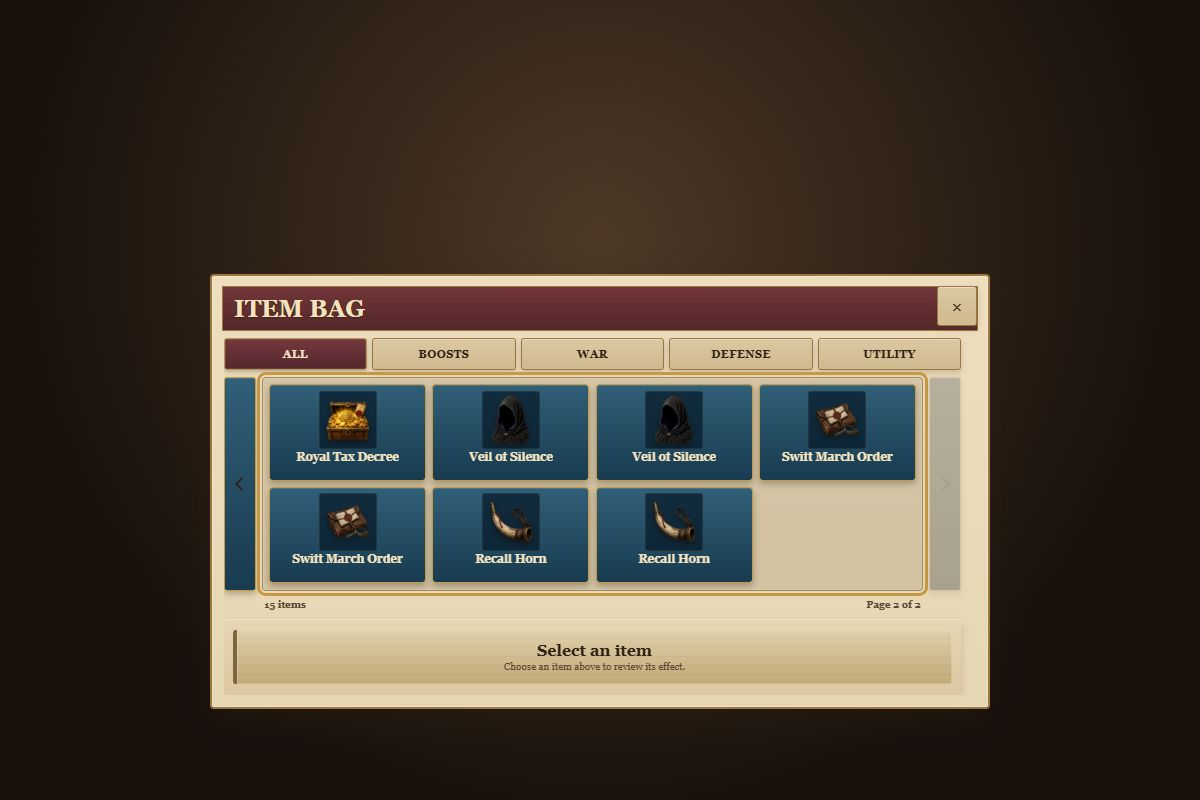
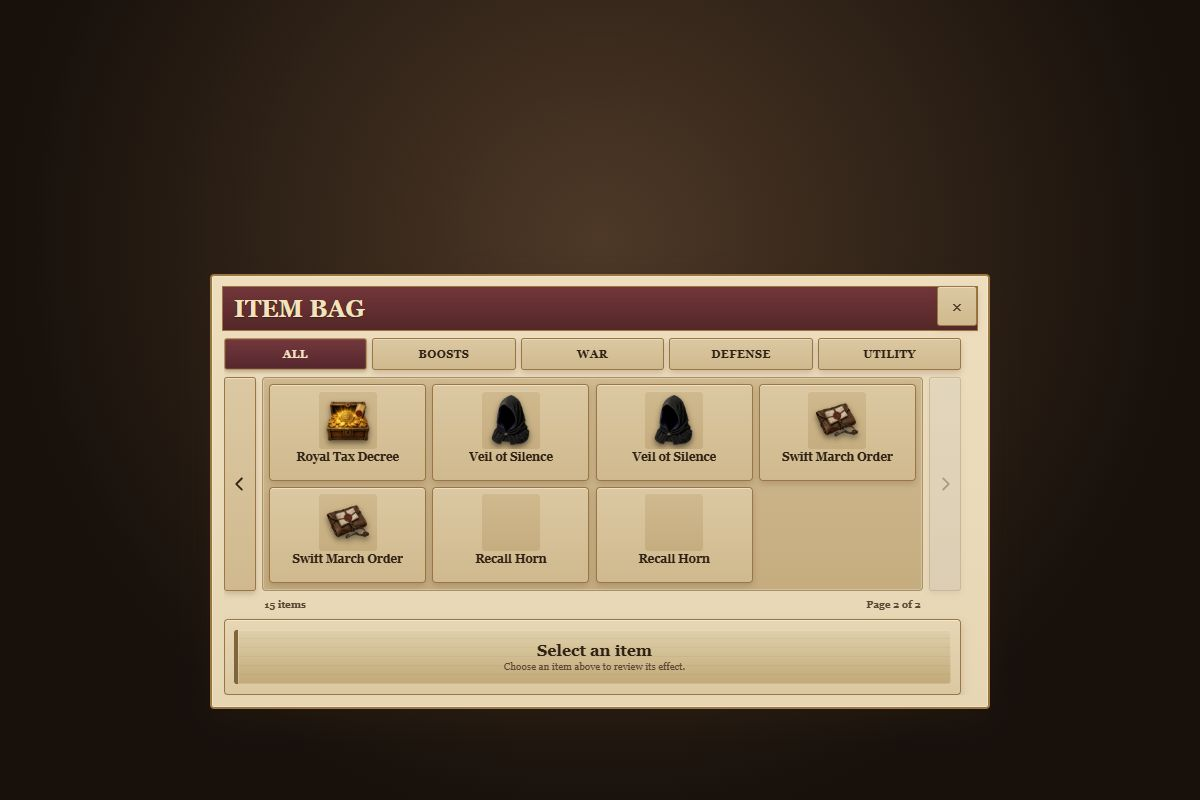
Match Item Bag palette to Shop theme

Changed region(s): [[0.185, 0.4375, 0.8017, 0.75]]

diff --git a/styles.css b/styles.css
@@ -4058,10 +4058,10 @@ input {
   min-width: 0;
   min-height: 176px;
   overflow: hidden;
-  border: 1px solid rgba(111,82,45,.52);
+  border: 1px solid var(--cl-border-faded);
   border-radius: 4px;
-  background: rgba(75,56,36,.14);
-  box-shadow: inset 0 0 0 1px rgba(255,247,216,.18);
+  background: var(--cl-inset-bg);
+  box-shadow: inset 0 0 0 1px rgba(255,248,232,.28);
   touch-action: pan-y;
 }
 .modal.inventory-modal .inventory-slots {
@@ -4094,11 +4094,16 @@ input {
   display: grid;
   place-items: center;
   padding: 0;
-  color: #f2e2bf !important;
-  background: linear-gradient(180deg, #6f3439, #452127) !important;
-  border: 1px solid #9d7b43 !important;
+  color: var(--cl-text) !important;
+  background: linear-gradient(180deg, var(--cl-panel-raised), var(--cl-panel-inset)) !important;
+  border: 1px solid var(--cl-brass) !important;
   border-radius: 3px;
-  box-shadow: inset 0 0 0 1px rgba(242,226,191,.1), 0 3px 6px rgba(24,15,9,.25) !important;
+  box-shadow: inset 0 1px 0 rgba(255,248,232,.44), 0 3px 6px rgba(84,47,36,.22) !important;
+}
+.modal.inventory-modal .inventory-page-arrow:hover:not(:disabled) {
+  color: var(--cl-burgundy-dark) !important;
+  border-color: var(--cl-gold-highlight) !important;
+  background: linear-gradient(180deg, #f2e2bf, var(--cl-panel-secondary)) !important;
 }
 .modal.inventory-modal .inventory-page-arrow .cl-icon {
   width: 20px;
@@ -4120,21 +4125,21 @@ input {
   gap: .2rem;
   padding: .34rem .28rem .3rem;
   overflow: hidden;
-  color: #f2e2bf !important;
-  background: linear-gradient(180deg, #173f5e, #0b263d) !important;
-  border: 1px solid #8d7448 !important;
+  color: var(--cl-text) !important;
+  background: linear-gradient(180deg, var(--cl-panel-raised), var(--cl-panel-inset)) !important;
+  border: 1px solid var(--cl-brass) !important;
   border-left-width: 1px !important;
   border-radius: 4px;
-  box-shadow: inset 0 0 0 1px rgba(204,226,236,.07), 0 3px 7px rgba(19,14,10,.28) !important;
+  box-shadow: inset 0 1px 0 rgba(255,248,232,.5), 0 3px 7px rgba(84,47,36,.22) !important;
 }
 .modal.inventory-modal .inventory-slot:hover:not(:disabled) {
-  border-color: #c6a55f !important;
-  background: linear-gradient(180deg, #1c4a6c, #0d2c47) !important;
+  border-color: var(--cl-gold-highlight) !important;
+  background: linear-gradient(180deg, #f2e2bf, var(--cl-panel-secondary)) !important;
 }
 .modal.inventory-modal .inventory-slot.selected {
-  border-color: #e5c06b !important;
-  background: linear-gradient(180deg, #285c79, #11324e) !important;
-  box-shadow: inset 0 0 0 1px rgba(255,236,177,.28), 0 0 0 2px rgba(215,177,83,.18) !important;
+  border-color: var(--cl-gold-highlight) !important;
+  background: linear-gradient(180deg, #f2e2bf, var(--cl-panel-inset)) !important;
+  box-shadow: inset 0 0 0 2px rgba(114,54,58,.78), inset 0 1px 0 rgba(255,248,232,.62), 0 3px 8px rgba(84,47,36,.28) !important;
 }
 .modal.inventory-modal .inventory-slot:disabled {
   opacity: .42;
@@ -4146,9 +4151,9 @@ input {
   place-items: center;
   overflow: hidden;
   align-self: center;
-  border-color: rgba(213,183,106,.48) !important;
-  background: rgba(6,25,40,.72) !important;
-  box-shadow: inset 0 0 0 1px rgba(240,216,151,.08) !important;
+  border-color: var(--cl-brass) !important;
+  background: var(--cl-inset-bg) !important;
+  box-shadow: inset 0 1px 0 rgba(255,248,232,.28) !important;
 }
 .modal.inventory-modal .inventory-slot-image {
   box-sizing: border-box;
@@ -4163,11 +4168,11 @@ input {
   display: -webkit-box;
   align-self: end;
   overflow: hidden;
-  color: #f2e2bf !important;
+  color: var(--cl-text) !important;
   font-size: clamp(.6rem, 1.4vw, .72rem);
   line-height: 1;
   text-overflow: ellipsis;
-  text-shadow: 0 1px 1px rgba(0,0,0,.7) !important;
+  text-shadow: none !important;
   -webkit-box-orient: vertical;
   -webkit-line-clamp: 2;
 }
@@ -4210,7 +4215,11 @@ input {
   align-items: center;
   gap: .58rem;
   padding: .48rem .58rem;
+  color: var(--cl-text);
+  border: 1px solid var(--cl-brass);
   border-radius: 4px;
+  background: linear-gradient(180deg, var(--cl-panel-secondary), var(--cl-panel-inset));
+  box-shadow: inset 0 1px 0 rgba(255,248,232,.48), 0 3px 7px rgba(84,47,36,.18);
 }
 .modal.inventory-modal .inventory-selection-icon {
   width: 56px;
@@ -4218,6 +4227,9 @@ input {
   display: grid;
   place-items: center;
   overflow: hidden;
+  border-color: var(--cl-brass) !important;
+  background: var(--cl-inset-bg) !important;
+  box-shadow: inset 0 1px 0 rgba(255,248,232,.28) !important;
 }
 .modal.inventory-modal .inventory-selection-image {
   box-sizing: border-box;
@@ -4253,12 +4265,15 @@ input {
   white-space: nowrap;
 }
 .modal.inventory-modal .inventory-selection-copy strong {
+  color: var(--cl-burgundy) !important;
   font-size: .82rem;
 }
 .modal.inventory-modal .inventory-selection-copy small {
+  color: var(--cl-text-secondary) !important;
   font-size: .63rem;
 }
 .modal.inventory-modal .inventory-selection-copy span {
+  color: var(--cl-text) !important;
   font-size: .66rem;
 }
 .modal.inventory-modal .inventory-use-btn {
@@ -4274,27 +4289,27 @@ input {
   text-align: center;
 }
 html body .modal.inventory-modal .inventory-carousel .inventory-slot.filled {
-  color: #f2e2bf !important;
-  background: linear-gradient(180deg, #173f5e, #0b263d) !important;
-  border-color: #8d7448 !important;
-  box-shadow: inset 0 0 0 1px rgba(204,226,236,.07), 0 3px 7px rgba(19,14,10,.28) !important;
+  color: var(--cl-text) !important;
+  background: linear-gradient(180deg, var(--cl-panel-raised), var(--cl-panel-inset)) !important;
+  border-color: var(--cl-brass) !important;
+  box-shadow: inset 0 1px 0 rgba(255,248,232,.5), 0 3px 7px rgba(84,47,36,.22) !important;
 }
 html body .modal.inventory-modal .inventory-carousel .inventory-slot.filled:hover:not(:disabled) {
-  background: linear-gradient(180deg, #1c4a6c, #0d2c47) !important;
-  border-color: #c6a55f !important;
+  background: linear-gradient(180deg, #f2e2bf, var(--cl-panel-secondary)) !important;
+  border-color: var(--cl-gold-highlight) !important;
 }
 html body .modal.inventory-modal .inventory-carousel .inventory-slot.filled.selected {
-  background: linear-gradient(180deg, #285c79, #11324e) !important;
-  border-color: #e5c06b !important;
-  box-shadow: inset 0 0 0 1px rgba(255,236,177,.28), 0 0 0 2px rgba(215,177,83,.18) !important;
+  background: linear-gradient(180deg, #f2e2bf, var(--cl-panel-inset)) !important;
+  border-color: var(--cl-gold-highlight) !important;
+  box-shadow: inset 0 0 0 2px rgba(114,54,58,.78), inset 0 1px 0 rgba(255,248,232,.62), 0 3px 8px rgba(84,47,36,.28) !important;
 }
 html body .modal.inventory-modal .inventory-carousel .inventory-slot-name {
-  color: #f2e2bf !important;
+  color: var(--cl-text) !important;
 }
 html body .modal.inventory-modal .inventory-carousel .inventory-page-arrow {
-  color: #f2e2bf !important;
-  background: linear-gradient(180deg, #6f3439, #452127) !important;
-  border-color: #9d7b43 !important;
+  color: var(--cl-text) !important;
+  background: linear-gradient(180deg, var(--cl-panel-raised), var(--cl-panel-inset)) !important;
+  border-color: var(--cl-brass) !important;
 }
 @media (prefers-reduced-motion: reduce) {
   .modal.inventory-modal .inventory-page { animation: none !important; }

diff --git a/tools/validate-item-bag-ui.js b/tools/validate-item-bag-ui.js
@@ -9,6 +9,7 @@ const game = read("game.js");
 const actions = read("instant-economy-actions.js");
 const styles = read("styles.css");
 const mobile = read("mobile-viewport.css");
+const profileTheme = read("profile-theme.css");
 const index = read("index.html");
 const worker = read("service-worker.js");
 
@@ -88,13 +89,19 @@ assert.doesNotMatch(actions.slice(actions.indexOf("function patchInventoryProjec
 assert.match(actions, /async function refreshInstantEconomyAfterFailure[\s\S]{0,420}?revalidateInstantEconomyActions\(\);[\s\S]{0,180}?showInventoryModal\(\);/, "Rejected item actions must rebuild the Bag so the restored card and page totals return immediately.");
 assert.match(game, /if \(selectedInventoryItemId === item\.id\) \{\s*selectedInventoryItemId = "";\s*selectedInventoryEntryKey = "";/, "Confirmed or local item use must clear the consumed presentation selection.");
 assert.match(styles, /\.modal\.inventory-modal \.inventory-slots[\s\S]*grid-template-columns: repeat\(4,[\s\S]*grid-template-rows: repeat\(2,/, "The Bag must use a fixed 4 by 2 card grid.");
-assert.match(styles, /background: linear-gradient\(180deg, #173f5e, #0b263d\) !important;/, "Bag cards must retain the Crownlands navy surface.");
+const bagTheme = styles.slice(styles.indexOf("/* Item Bag:"), styles.indexOf(".city-list-modal.modal"));
+assert.match(bagTheme, /\.inventory-carousel-viewport[\s\S]*background: var\(--cl-inset-bg\);/, "The Bag item area must use the Shop parchment inset surface.");
+assert.match(bagTheme, /\.inventory-slot \{[\s\S]*color: var\(--cl-text\) !important;[\s\S]*background: linear-gradient\(180deg, var\(--cl-panel-raised\), var\(--cl-panel-inset\)\) !important;[\s\S]*border: 1px solid var\(--cl-brass\) !important;/, "Bag cards must use the Shop parchment, brown-text, and brass treatment.");
+assert.match(bagTheme, /\.inventory-slot\.selected \{[\s\S]*border-color: var\(--cl-gold-highlight\) !important;[\s\S]*background: linear-gradient\(180deg, #f2e2bf, var\(--cl-panel-inset\)\) !important;[\s\S]*rgba\(114,54,58,\.78\)/, "Selected Bag cards must retain the Shop-style burgundy and restrained-gold accent.");
+assert.match(bagTheme, /\.inventory-page-arrow \{[\s\S]*color: var\(--cl-text\) !important;[\s\S]*background: linear-gradient\(180deg, var\(--cl-panel-raised\), var\(--cl-panel-inset\)\) !important;/, "Bag arrows must use the Shop parchment button language.");
+assert.doesNotMatch(bagTheme, /#173f5e|#0b263d|#1c4a6c|#285c79|#11324e/, "The approved Bag must not regress to navy fantasy surfaces.");
+assert.match(profileTheme, /:not\(\[aria-pressed="true"\]\):not\(\.inventory-slot,\.inventory-page-arrow\)/, "The legacy Profile button layer must not repaint Bag cards or arrows navy.");
 assert.match(mobile, /max-height: 440px[\s\S]*\.modal\.inventory-modal[\s\S]*\.inventory-selection/, "Landscape Bag compaction is missing.");
-assert.match(index, /crownlands-build" content="20260823-item-bag-shop-reconcile-r1"/);
+assert.match(index, /crownlands-build" content="20260823-item-bag-shop-theme-r1"/);
 for (const asset of ["styles.css", "mobile-viewport.css", "instant-economy-actions.js", "game.js"]) {
-  assert(index.includes(`${asset}?v=20260823-item-bag-shop-reconcile-r1`), `${asset} has a stale page cache stamp.`);
-  assert(worker.includes(`/${asset}?v=20260823-item-bag-shop-reconcile-r1`), `${asset} is missing from the refreshed offline shell.`);
+  assert(index.includes(`${asset}?v=20260823-item-bag-shop-theme-r1`), `${asset} has a stale page cache stamp.`);
+  assert(worker.includes(`/${asset}?v=20260823-item-bag-shop-theme-r1`), `${asset} is missing from the refreshed offline shell.`);
 }
-assert(worker.includes('CACHE_VERSION = "20260823-item-bag-shop-reconcile-r1"'));
+assert(worker.includes('CACHE_VERSION = "20260823-item-bag-shop-theme-r1"'));
 
 console.log("Validated the Crownlands Item Bag: categories, individual copies, bounded 4x2 paging, input guards, responsive layout, and cache delivery.");

diff --git a/index.html b/index.html
@@ -21,11 +21,11 @@
   <meta name="apple-mobile-web-app-title" content="Crownlands" />
   <meta name="apple-mobile-web-app-status-bar-style" content="black-translucent" />
   <meta name="format-detection" content="telephone=no" />
-  <meta name="crownlands-build" content="20260823-item-bag-shop-reconcile-r1" />
+  <meta name="crownlands-build" content="20260823-item-bag-shop-theme-r1" />
   <link rel="preconnect" href="https://fonts.googleapis.com" />
   <link rel="preconnect" href="https://fonts.gstatic.com" crossorigin />
   <link href="https://fonts.googleapis.com/css2?family=Cinzel:wght@400;500;600;700;800;900&family=Cinzel+Decorative:wght@700;900&family=IM+Fell+English:ital@0;1&display=swap" rel="stylesheet" />
-  <link rel="stylesheet" href="styles.css?v=20260823-item-bag-shop-reconcile-r1" />
+  <link rel="stylesheet" href="styles.css?v=20260823-item-bag-shop-theme-r1" />
   <link rel="stylesheet" href="interface-theme.css?v=20260814-readability-r38" />
   <link rel="stylesheet" href="daily-rewards.css?v=20260819-targeted-ui-contrast-r2" />
   <link rel="stylesheet" href="common-gear-ui.css?v=20260817-inner-castle-labels-r1" />
@@ -33,9 +33,9 @@
   <link rel="stylesheet" href="manuscript-prototype.css?v=20260819-player-flags-v2-r1" />
   <link rel="stylesheet" href="ui-contrast-correction.css?v=20260819-player-flags-v2-r1" />
   <link rel="stylesheet" href="profile-theme.css?v=20260819-player-flags-v2-r1" />
-  <link rel="stylesheet" href="crownlands-palette.css?v=20260823-item-bag-shop-reconcile-r1" />
+  <link rel="stylesheet" href="crownlands-palette.css?v=20260823-item-bag-shop-theme-r1" />
   <link rel="stylesheet" href="action-buttons.css?v=20260814-readability-r38" />
-  <link rel="stylesheet" href="mobile-viewport.css?v=20260823-item-bag-shop-reconcile-r1" />
+  <link rel="stylesheet" href="mobile-viewport.css?v=20260823-item-bag-shop-theme-r1" />
   <link rel="stylesheet" href="player-flag-editor.css?v=20260819-player-flags-v2-r1" />
   <link rel="stylesheet" href="chat.css?v=20260818-global-clan-chat-r1" />
   <link rel="preload" as="image" type="image/webp" href="assets/optimized/login-background-1448x1086-c8507d1988d6.webp" fetchpriority="high" />
@@ -606,10 +606,10 @@
   <script src="chat-ui.js?v=20260818-global-clan-chat-r1"></script>
   <script src="audio-manager.js?v=20260812-core-visual-pass-2"></script>
   <script src="animation-manager.js?v=20260810-daily-mission-camp-fix-v1"></script>
-  <script src="instant-economy-actions.js?v=20260823-item-bag-shop-reconcile-r1"></script>
+  <script src="instant-economy-actions.js?v=20260823-item-bag-shop-theme-r1"></script>
   <script src="base-cities.js?v=20260813-base-cities-split-r1"></script>
-  <script src="common-gear-ui.js?v=20260823-item-bag-shop-reconcile-r1"></script>
-  <script src="game.js?v=20260823-item-bag-shop-reconcile-r1"></script>
+  <script src="common-gear-ui.js?v=20260823-item-bag-shop-theme-r1"></script>
+  <script src="game.js?v=20260823-item-bag-shop-theme-r1"></script>
   <script src="ui-layout-runtime.js?v=20260818-global-clan-chat-r1"></script>
 </body>
 </html>

diff --git a/service-worker.js b/service-worker.js
@@ -1,4 +1,4 @@
-const CACHE_VERSION = "20260823-item-bag-shop-reconcile-r1";
+const CACHE_VERSION = "20260823-item-bag-shop-theme-r1";
 const CACHE_NAME = `crownlands-cache-${CACHE_VERSION}`;
 const APP_BASE_URL = new URL("./", self.location.href);
 
@@ -11,15 +11,15 @@ function resolveAppUrl(path = "") {
 const STATIC_CACHE_URLS = [
   "/index.html",
   "/manifest.webmanifest",
-  "/styles.css?v=20260823-item-bag-shop-reconcile-r1",
+  "/styles.css?v=20260823-item-bag-shop-theme-r1",
   "/interface-theme.css?v=20260814-readability-r38",
   "/readability.css?v=20260819-player-flags-v2-r1",
   "/manuscript-prototype.css?v=20260819-player-flags-v2-r1",
   "/ui-contrast-correction.css?v=20260819-player-flags-v2-r1",
   "/profile-theme.css?v=20260819-player-flags-v2-r1",
-  "/crownlands-palette.css?v=20260823-item-bag-shop-reconcile-r1",
+  "/crownlands-palette.css?v=20260823-item-bag-shop-theme-r1",
   "/action-buttons.css?v=20260814-readability-r38",
-  "/mobile-viewport.css?v=20260823-item-bag-shop-reconcile-r1",
+  "/mobile-viewport.css?v=20260823-item-bag-shop-theme-r1",
   "/player-flag-editor.css?v=20260819-player-flags-v2-r1",
   "/chat.css?v=20260818-global-clan-chat-r1",
   "/release-config.js",
@@ -31,10 +31,10 @@ const STATIC_CACHE_URLS = [
   "/functions/flagRenderer.js?v=20260819-player-flags-v2-r1",
   "/firebaseClient.js?v=20260819-player-flags-v2-r1",
   "/animation-manager.js?v=20260810-daily-mission-camp-fix-v1",
-  "/instant-economy-actions.js?v=20260823-item-bag-shop-reconcile-r1",
+  "/instant-economy-actions.js?v=20260823-item-bag-shop-theme-r1",
   "/base-cities.js?v=20260813-base-cities-split-r1",
   "/ui-layout-config.js?v=20260818-global-clan-chat-r1",
-  "/game.js?v=20260823-item-bag-shop-reconcile-r1",
+  "/game.js?v=20260823-item-bag-shop-theme-r1",
   "/ui-layout-runtime.js?v=20260818-global-clan-chat-r1",
   "/route-worker.js?v=20260721-structure-route-clearance",
   "/assets/map-editor-data.js?v=20260813-editor-layout-r1",

diff --git a/profile-theme.css b/profile-theme.css
@@ -340,7 +340,7 @@ input[type="range"] {
   .profile-screen,
   .modal .modal-card,
   .bottom-nav
-) :is(button, .profile-secondary-btn, .privacy-settings-link):not(.flag-color-swatch):not([data-flag-color]):not(.player-name-link):not(.clan-identity-link):not(.island-map-icon):not(.primary-btn):not(.profile-primary-btn):not(.offline-collect-btn):not(.danger-action):not(.active):not([aria-selected="true"]):not([aria-pressed="true"]) {
+) :is(button, .profile-secondary-btn, .privacy-settings-link):not(.flag-color-swatch):not([data-flag-color]):not(.player-name-link):not(.clan-identity-link):not(.island-map-icon):not(.primary-btn):not(.profile-primary-btn):not(.offline-collect-btn):not(.danger-action):not(.active):not([aria-selected="true"]):not([aria-pressed="true"]):not(.inventory-slot,.inventory-page-arrow) {
   color: var(--cl-profile-ivory) !important;
   border-color: var(--cl-profile-border-bright) !important;
   background: linear-gradient(180deg, #315f78, #183b50) !important;

diff --git a/tools/validate-common-gear.js b/tools/validate-common-gear.js
@@ -99,7 +99,7 @@ const client = read("firebaseClient.js");
 assert.match(client, /delete cleanProfile\.gear;/, "Normal profile saves must strip authoritative gear.");
 const clientIndex = read("index.html");
 assert.match(clientIndex, /common-gear-ui\.css\?v=20260817-inner-castle-labels-r1/, "The equipment stylesheet must load in the game shell.");
-assert.match(clientIndex, /common-gear-ui\.js\?v=20260823-item-bag-shop-reconcile-r1[\s\S]*game\.js\?v=20260823-item-bag-shop-reconcile-r1/, "The equipment runtime must load before game.js.");
+assert.match(clientIndex, /common-gear-ui\.js\?v=20260823-item-bag-shop-theme-r1[\s\S]*game\.js\?v=20260823-item-bag-shop-theme-r1/, "The equipment runtime must load before game.js.");
 const gearUi = read("common-gear-ui.js");
 const game = `${read("game.js")}\n${gearUi}`;
 assert.match(game, /Common Gear Box/);

diff --git a/tools/validate-mobile-ui-viewport.js b/tools/validate-mobile-ui-viewport.js
@@ -52,8 +52,8 @@ const modalClasses = new Set([
 assert.ok(modalClasses.size >= 20, "The reusable modal audit no longer covers the complete UI family.");
 assert.ok(css.includes(".modal:not(.level-up-reward-modal)"), "Dynamic modal classes are not protected by the shared mobile rule.");
 
-const releaseId = "20260823-item-bag-shop-reconcile-r1";
-const cacheVersion = "20260823-item-bag-shop-reconcile-r1";
+const releaseId = "20260823-item-bag-shop-theme-r1";
+const cacheVersion = "20260823-item-bag-shop-theme-r1";
 const styleTag = `mobile-viewport.css?v=${releaseId}`;
 assert.ok(index.includes(styleTag), "The mobile viewport layer is not loaded by the game.");
 assert.ok(index.indexOf(styleTag) > index.indexOf("action-buttons.css"), "The mobile viewport layer must load after every existing game theme.");

diff --git a/tools/validate-login-resilience.js b/tools/validate-login-resilience.js
@@ -28,7 +28,7 @@ requireMatch(game, /async function flushOnlineSave[\s\S]*Promise\.allSettled[\s\
 requireMatch(game, /if \(onlineSaveInFlight\) return onlineSavePromise \|\| false/, "Forced cloud flushes do not share the active save request.");
 
 const firebaseClientBuildId = "20260819-player-flags-v2-r1";
-const gameBuildId = "20260823-item-bag-shop-reconcile-r1";
+const gameBuildId = "20260823-item-bag-shop-theme-r1";
 for (const [label, source] of [["index", index], ["service worker", worker]]) {
   requireMatch(source, new RegExp(firebaseClientBuildId), `The ${label} does not carry the login-resilience cache version.`);
   requireMatch(source, /firebaseClient\.js\?v=20260819-player-flags-v2-r1/, `The ${label} does not refresh the Firebase client.`);

diff --git a/tools/validate-objective-action-buttons.js b/tools/validate-objective-action-buttons.js
@@ -124,7 +124,7 @@ assert.ok(wheelFunctions[2].includes("cl-action-send"), "Owned Stronghold/Citade
 assert.ok(wheelFunctions[3].includes("cl-action-send camp-recall-action"), "Held Camp Recall is missing its movement token.");
 
 const releaseId = "20260814-readability-r38";
-const cacheVersion = "20260823-item-bag-shop-reconcile-r1";
+const cacheVersion = "20260823-item-bag-shop-theme-r1";
 const styleTag = `action-buttons.css?v=${releaseId}`;
 assert.ok(index.includes(styleTag), "The shared action-button stylesheet is not loaded by the game.");
 assert.ok(index.indexOf(styleTag) > index.indexOf("profile-theme.css"), "The shared action-button stylesheet must load after legacy and Profile theme layers.");

diff --git a/tools/validate-crownlands-palette.js b/tools/validate-crownlands-palette.js
@@ -14,8 +14,8 @@ const manifestBuilder = read("tools/generate-release-manifest.js");
 const artifactValidator = read("tools/validate-production-artifact.js");
 const budgetValidator = read("tools/validate-asset-performance-budgets.js");
 
-const releaseId = "20260823-item-bag-shop-reconcile-r1";
-const cacheVersion = "20260823-item-bag-shop-reconcile-r1";
+const releaseId = "20260823-item-bag-shop-theme-r1";
+const cacheVersion = "20260823-item-bag-shop-theme-r1";
 const paletteTag = `crownlands-palette.css?v=${releaseId}`;
 
 assert.ok(Buffer.byteLength(css.replace(/\r\n/g, "\n"), "utf8") <= 40 * 1024, "The Crownlands palette exceeds its 40 KiB delivery budget.");

diff --git a/tools/validate-ui-readability.js b/tools/validate-ui-readability.js
@@ -8,7 +8,7 @@ const css = read("readability.css");
 const worker = read("service-worker.js");
 const build = read("tools/build-production-client.js");
 const releaseId = "20260819-player-flags-v2-r1";
-const buildId = "20260823-item-bag-shop-reconcile-r1";
+const buildId = "20260823-item-bag-shop-theme-r1";
 
 function requireMatch(source, pattern, message) {
   if (!pattern.test(source)) throw new Error(message);

diff --git a/tools/validate-pass-3f-items.js b/tools/validate-pass-3f-items.js
@@ -4,7 +4,7 @@ const path = require("node:path");
 
 const ROOT = path.resolve(__dirname, "..");
 const SOURCE_SIZE = 1254;
-const BUILD_ID = "20260823-item-bag-shop-reconcile-r1";
+const BUILD_ID = "20260823-item-bag-shop-theme-r1";
 
 const expected = [
   ["item-common-gear-box", "assets/gear/common-gear-box.png", 192, "gear-box"],
